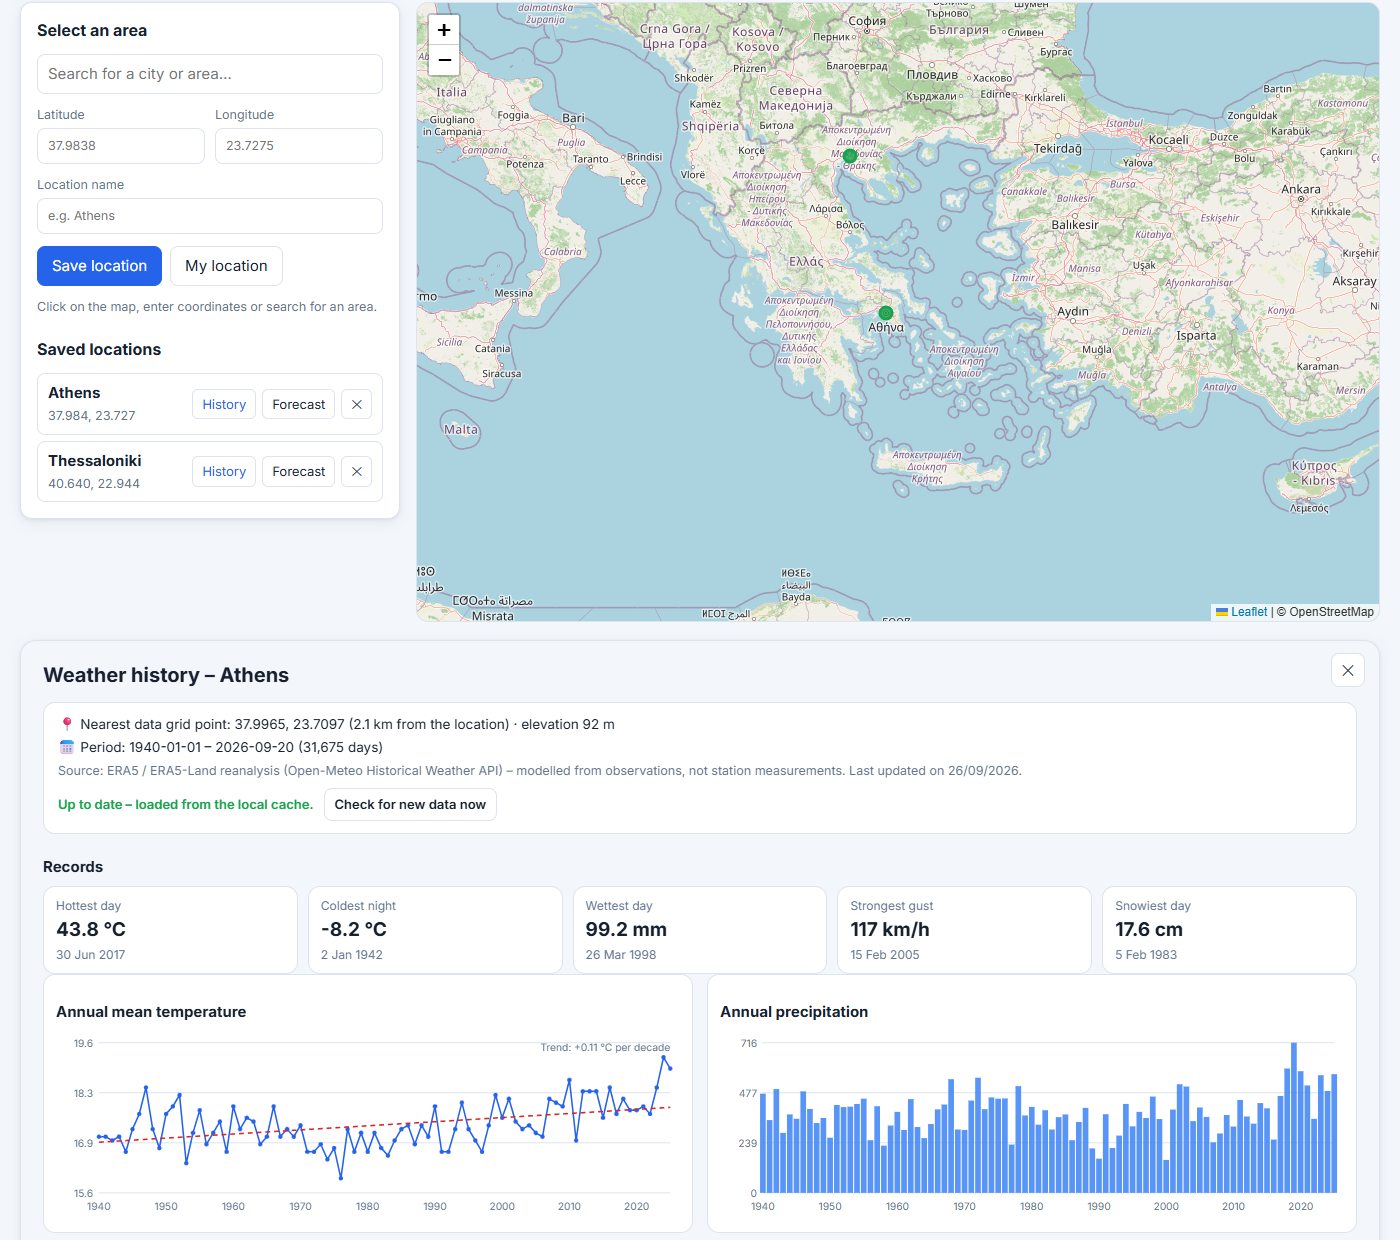
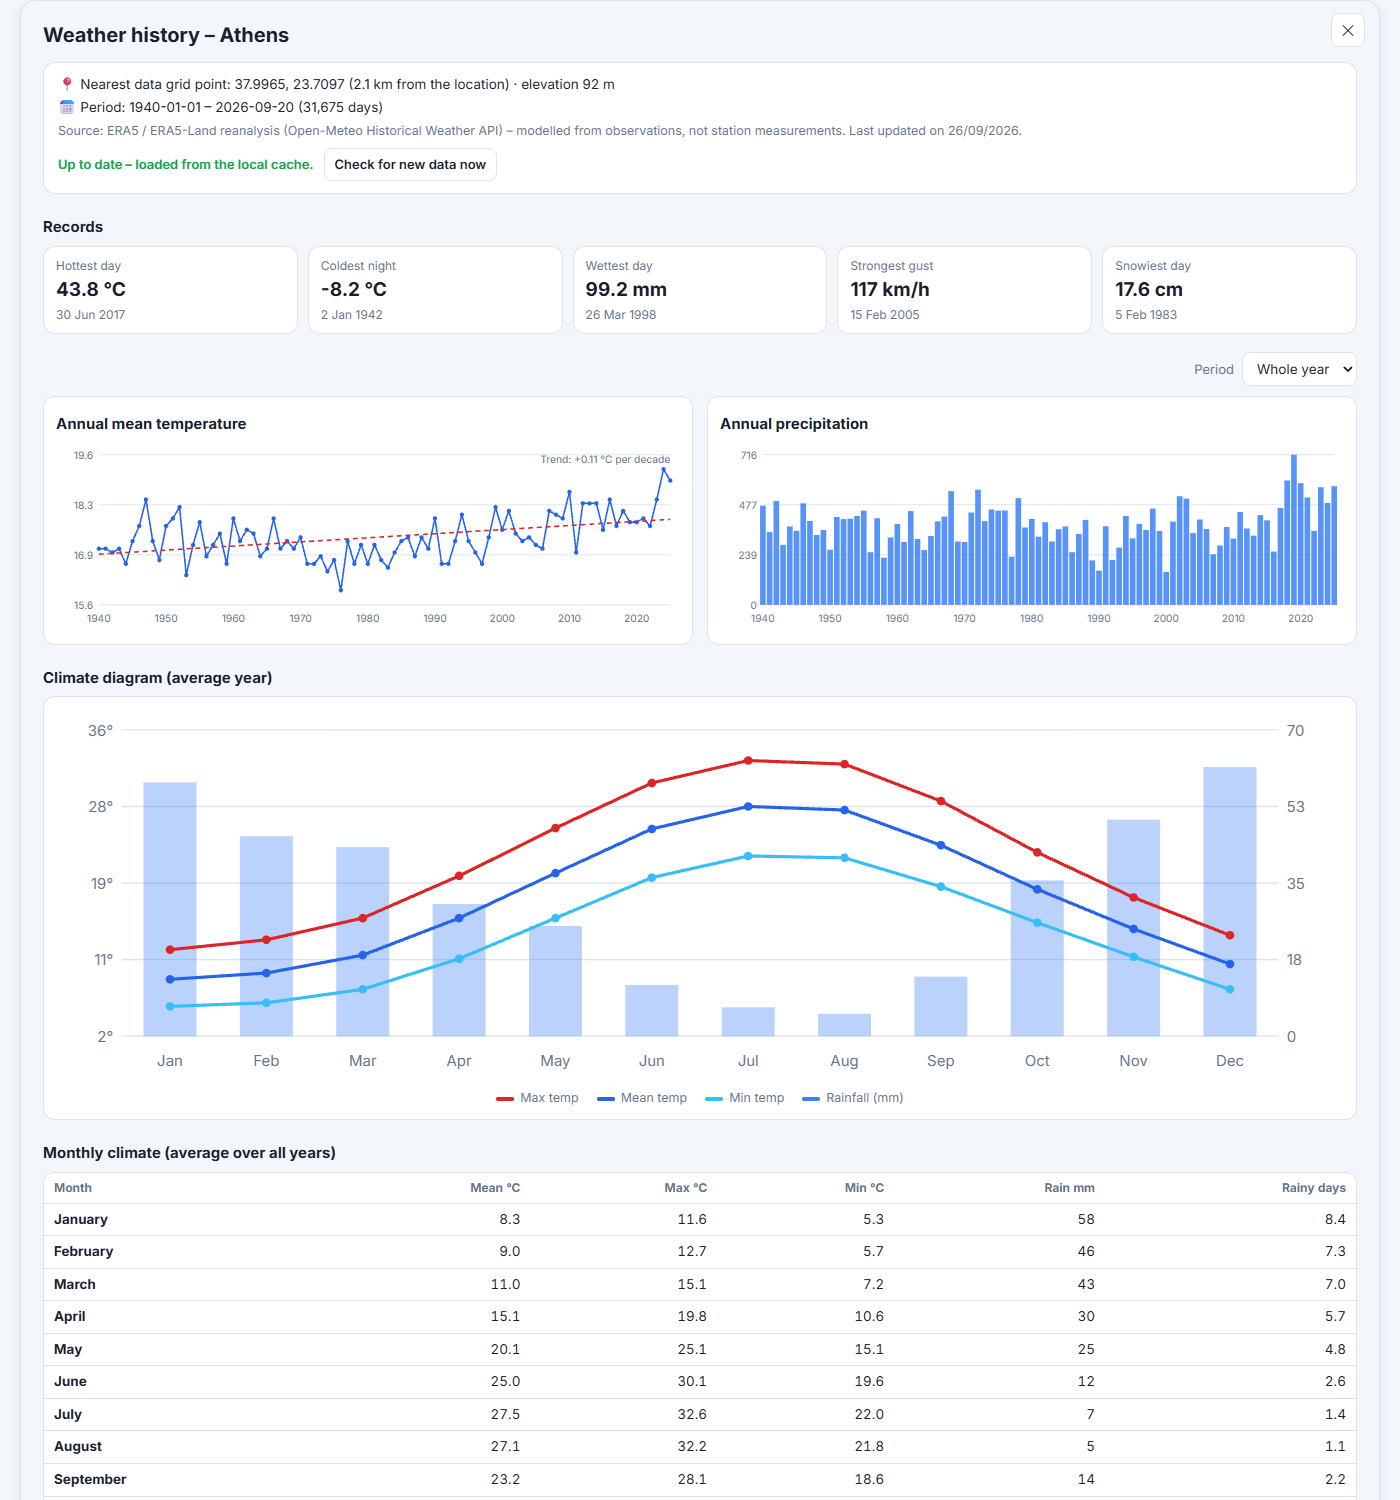
History: month selector for charts, climate diagram, spacing between sections

diff --git a/js/app.js b/js/app.js
@@ -643,15 +643,51 @@ function histChart(points, { kind, color, unit, d = 1, trend = false }) {
   return `<svg class="hchart" viewBox="0 0 ${W} ${H}" role="img">${g}${body}</svg>`;
 }
 
+/* Climate diagram: bars = rainfall per month (right axis), lines = max / mean / min temperature (left axis) */
+function climateChart(monthly) {
+  if (monthly.length < 12) return '';
+  const W = 900, H = 260, pl = 46, pr = 46, pt = 16, pb = 30;
+  const tv = monthly.flatMap((r) => [r.tmax, r.tmin]);
+  let tmin = Math.min(...tv), tmax = Math.max(...tv);
+  const tpad = (tmax - tmin) * 0.1 || 1; tmin = Math.floor(tmin - tpad); tmax = Math.ceil(tmax + tpad);
+  const pmax = Math.ceil(Math.max(...monthly.map((r) => r.prcp)) / 10) * 10 || 10;
+  const x = (i) => pl + ((i + 0.5) * (W - pl - pr)) / 12;
+  const yT = (v) => pt + (H - pt - pb) * (1 - (v - tmin) / (tmax - tmin));
+  const yP = (v) => pt + (H - pt - pb) * (1 - v / pmax);
+  const bw = ((W - pl - pr) / 12) * 0.55;
+  let g = '';
+  for (let i = 0; i <= 4; i++) {
+    const tvv = tmin + ((tmax - tmin) * i) / 4, pv = (pmax * i) / 4;
+    g += `<line x1="${pl}" x2="${W - pr}" y1="${yT(tvv)}" y2="${yT(tvv)}" class="gl"/>`
+      + `<text x="${pl - 6}" y="${yT(tvv) + 4}" text-anchor="end" class="tx">${Math.round(tvv)}°</text>`
+      + `<text x="${W - pr + 6}" y="${yT(tvv) + 4}" class="tx" fill="var(--rain)">${Math.round(pv)}</text>`;
+  }
+  const bars = monthly.map((r, i) => `<rect x="${x(i) - bw / 2}" y="${yP(r.prcp)}" width="${bw}" height="${yP(0) - yP(r.prcp)}" fill="var(--rain)" opacity=".35"><title>${monthName(r.m)}: ${niceNum(r.prcp, 0)} mm</title></rect>`).join('');
+  const line = (key, color, dash = '') => `<path d="${monthly.map((r, i) => `${i ? 'L' : 'M'}${x(i).toFixed(1)} ${yT(r[key]).toFixed(1)}`).join('')}" fill="none" stroke="${color}" stroke-width="2.2" ${dash ? `stroke-dasharray="${dash}"` : ''}/>`
+    + monthly.map((r, i) => `<circle cx="${x(i)}" cy="${yT(r[key])}" r="3" fill="${color}"><title>${monthName(r.m)}: ${niceNum(r[key])} °C</title></circle>`).join('');
+  const labels = monthly.map((r, i) => `<text x="${x(i)}" y="${H - 9}" text-anchor="middle" class="tx">${monthName(r.m, true)}</text>`).join('');
+  const legend = [['h.lg.max', 'var(--bad)'], ['h.lg.mean', 'var(--accent)'], ['h.lg.min', '#38bdf8'], ['h.lg.rain', 'var(--rain)']]
+    .map(([k, c]) => `<span><i style="background:${c}"></i>${t(k)}</span>`).join('');
+  return `<svg class="hchart" viewBox="0 0 ${W} ${H}" role="img">${g}${bars}${line('tmax', 'var(--bad)')}${line('tmean', 'var(--accent)')}${line('tmin', '#38bdf8')}${labels}</svg><div class="clegend">${legend}</div>`;
+}
+
 function renderHistory() {
   if (!histState) return;
   const { loc, data: h, fresh, added } = histState;
   if (!h) { return; }
   const m = h.meta;
+  const period = histState.period || 'all';
   const complete = h.annual.filter((a) => a.n >= 350);
+  // Series for the two charts: whole year (annual values) or one calendar month of every year
+  const seriesT = period === 'all' ? complete.filter((a) => a.tmean != null).map((a) => ({ x: a.y, v: a.tmean }))
+    : h.series.filter((r) => r[1] === +period && r[4] >= 25 && r[2] != null).map((r) => ({ x: r[0], v: r[2] }));
+  const seriesP = period === 'all' ? complete.filter((a) => a.prcp != null).map((a) => ({ x: a.y, v: a.prcp }))
+    : h.series.filter((r) => r[1] === +period && r[4] >= 25 && r[3] != null).map((r) => ({ x: r[0], v: r[3] }));
+  const pName = period === 'all' ? '' : monthName(+period);
+  const periodSel = `<label class="hperiod">${t('h.periodsel')} <select id="histPeriod"><option value="all">${t('h.period.all')}</option>${Array.from({ length: 12 }, (_, i) => `<option value="${i + 1}" ${+period === i + 1 ? 'selected' : ''}>${monthName(i + 1)}</option>`).join('')}</select></label>`;
   const fmtDate = (d) => new Date(d + 'T12:00:00').toLocaleDateString(dateLocale(), { day: 'numeric', month: 'short', year: 'numeric' });
   const rec = (k, unit, d = 1) => (h.records[k] ? `<div class="rcard"><span>${t('h.rec.' + k)}</span><b>${niceNum(h.records[k].v, d)} ${unit}</b><small>${fmtDate(h.records[k].d)}</small></div>` : '');
-  const months = h.monthly.map((r) => `<tr><th>${new Date(2000, r.m - 1, 1).toLocaleDateString(dateLocale(), { month: 'long' })}</th><td>${niceNum(r.tmean)}</td><td>${niceNum(r.tmax)}</td><td>${niceNum(r.tmin)}</td><td>${niceNum(r.prcp, 0)}</td><td>${niceNum(r.rainy, 1)}</td></tr>`).join('');
+  const months = h.monthly.map((r) => `<tr><th>${monthName(r.m)}</th><td>${niceNum(r.tmean)}</td><td>${niceNum(r.tmax)}</td><td>${niceNum(r.tmin)}</td><td>${niceNum(r.prcp, 0)}</td><td>${niceNum(r.rainy, 1)}</td></tr>`).join('');
   const maxP = Math.max(...h.annual.map((a) => a.prcp || 0), 1);
   const years = h.annual.slice().reverse().map((a) => `<tr><th>${a.y}${a.n < 350 ? '*' : ''}</th><td>${niceNum(a.tmean)}</td><td>${niceNum(a.tmax)}</td><td>${niceNum(a.tmin)}</td>
       <td><div class="pbar"><i style="width:${Math.round(((a.prcp || 0) / maxP) * 100)}%"></i><span>${niceNum(a.prcp, 0)}</span></div></td><td>${a.rainy}</td><td>${niceNum(a.gust, 0)}</td><td>${niceNum(a.snow)}</td></tr>`).join('');
@@ -665,20 +701,24 @@ function renderHistory() {
     </div>
     <h3>${t('h.rec.title')}</h3>
     <div class="rcards">${rec('hottest', '°C')}${rec('coldest', '°C')}${rec('wettest', 'mm')}${rec('windiest', 'km/h', 0)}${(h.records.snowiest && h.records.snowiest.v > 0) ? rec('snowiest', 'cm') : ''}</div>
+    <div class="h-toolbar">${periodSel}</div>
     <div class="h-charts">
-      <div><h3>${t('h.chart.temp')}</h3>${histChart(complete.filter((a) => a.tmean != null).map((a) => ({ x: a.y, v: a.tmean })), { kind: 'line', color: 'var(--accent)', unit: '°C', trend: true })}</div>
-      <div><h3>${t('h.chart.prcp')}</h3>${histChart(complete.filter((a) => a.prcp != null).map((a) => ({ x: a.y, v: a.prcp })), { kind: 'bar', color: 'var(--rain)', unit: 'mm', d: 0 })}</div>
+      <div><h3>${period === 'all' ? t('h.chart.temp') : t('h.chart.temp.m', { m: pName })}</h3>${histChart(seriesT, { kind: 'line', color: 'var(--accent)', unit: '°C', trend: true })}</div>
+      <div><h3>${period === 'all' ? t('h.chart.prcp') : t('h.chart.prcp.m', { m: pName })}</h3>${histChart(seriesP, { kind: 'bar', color: 'var(--rain)', unit: 'mm', d: 0 })}</div>
     </div>
+    <h3>${t('h.climate')}</h3>
+    <div class="h-climate">${climateChart(h.monthly)}</div>
     <h3>${t('h.monthly')}</h3>
     <div class="h-tablewrap"><table class="htable"><thead><tr><th>${t('h.col.month')}</th><th>${t('h.col.mean')}</th><th>${t('h.col.max')}</th><th>${t('h.col.min')}</th><th>${t('h.col.prcp')}</th><th>${t('h.col.rainy')}</th></tr></thead><tbody>${months}</tbody></table></div>
     <h3>${t('h.annual')}</h3>
     <div class="h-tablewrap tall"><table class="htable"><thead><tr><th>${t('h.col.year')}</th><th>${t('h.col.mean')}</th><th>${t('h.col.max')}</th><th>${t('h.col.min')}</th><th>${t('h.col.prcp')}</th><th>${t('h.col.rainy')}</th><th>${t('h.col.gust')}</th><th>${t('h.col.snow')}</th></tr></thead><tbody>${years}</tbody></table></div>
     <p class="hint">${t('h.partial')}</p>`;
   $('histUpdate').addEventListener('click', () => openHistory(loc, true));
+  $('histPeriod').addEventListener('change', (e) => { histState.period = e.target.value; renderHistory(); });
 }
 
 async function openHistory(loc, refresh = false) {
-  histState = { loc, data: null, fresh: false, added: 0 };
+  histState = { loc, data: null, fresh: false, added: 0, period: (histState && histState.loc.id === loc.id && histState.period) || 'all' };
   const wasHidden = histSec.hidden;
   histSec.hidden = false;
   if (wasHidden || !refresh) histSec.scrollIntoView({ behavior: 'smooth', block: 'start' });

diff --git a/js/i18n.js b/js/i18n.js
@@ -33,6 +33,11 @@ const I18N = {
     'h.rec.hottest': 'Hottest day', 'h.rec.coldest': 'Coldest night', 'h.rec.wettest': 'Wettest day', 'h.rec.windiest': 'Strongest gust', 'h.rec.snowiest': 'Snowiest day',
     'h.chart.temp': 'Annual mean temperature', 'h.chart.prcp': 'Annual precipitation',
     'h.trend': 'Trend: {v} °C per decade',
+    'h.periodsel': 'Period',
+    'h.period.all': 'Whole year',
+    'h.chart.temp.m': 'Mean temperature – {m} of each year', 'h.chart.prcp.m': 'Precipitation – {m} of each year',
+    'h.climate': 'Climate diagram (average year)',
+    'h.lg.max': 'Max temp', 'h.lg.mean': 'Mean temp', 'h.lg.min': 'Min temp', 'h.lg.rain': 'Rainfall (mm)',
     'h.monthly': 'Monthly climate (average over all years)', 'h.annual': 'Year by year',
     'h.col.month': 'Month', 'h.col.year': 'Year', 'h.col.mean': 'Mean °C', 'h.col.max': 'Max °C', 'h.col.min': 'Min °C', 'h.col.prcp': 'Rain mm', 'h.col.rainy': 'Rainy days', 'h.col.gust': 'Gust km/h', 'h.col.snow': 'Snow cm',
     'h.partial': '* incomplete year. “Rainy days” = days with at least 1 mm.',
@@ -139,6 +144,11 @@ const I18N = {
     'h.rec.hottest': 'Θερμότερη ημέρα', 'h.rec.coldest': 'Ψυχρότερη νύχτα', 'h.rec.wettest': 'Πιο βροχερή ημέρα', 'h.rec.windiest': 'Ισχυρότερη ριπή', 'h.rec.snowiest': 'Πιο χιονισμένη ημέρα',
     'h.chart.temp': 'Μέση ετήσια θερμοκρασία', 'h.chart.prcp': 'Ετήσια βροχόπτωση',
     'h.trend': 'Τάση: {v} °C ανά δεκαετία',
+    'h.periodsel': 'Περίοδος',
+    'h.period.all': 'Ολόκληρο το έτος',
+    'h.chart.temp.m': 'Μέση θερμοκρασία – {m} κάθε έτους', 'h.chart.prcp.m': 'Βροχόπτωση – {m} κάθε έτους',
+    'h.climate': 'Κλιματικό διάγραμμα (μέσο έτος)',
+    'h.lg.max': 'Μέγ. θερμοκρασία', 'h.lg.mean': 'Μέση θερμοκρασία', 'h.lg.min': 'Ελάχ. θερμοκρασία', 'h.lg.rain': 'Βροχή (mm)',
     'h.monthly': 'Κλίμα ανά μήνα (μέσος όρος όλων των ετών)', 'h.annual': 'Έτος προς έτος',
     'h.col.month': 'Μήνας', 'h.col.year': 'Έτος', 'h.col.mean': 'Μέση °C', 'h.col.max': 'Μέγ. °C', 'h.col.min': 'Ελάχ. °C', 'h.col.prcp': 'Βροχή mm', 'h.col.rainy': 'Βροχερές ημέρες', 'h.col.gust': 'Ριπή km/h', 'h.col.snow': 'Χιόνι cm',
     'h.partial': '* ημιτελές έτος. «Βροχερές ημέρες» = ημέρες με τουλάχιστον 1 mm.',
@@ -214,6 +224,15 @@ const I18N = {
   },
 };
 
+const MONTHS = {
+  en: ['January', 'February', 'March', 'April', 'May', 'June', 'July', 'August', 'September', 'October', 'November', 'December'],
+  el: ['Ιανουάριος', 'Φεβρουάριος', 'Μάρτιος', 'Απρίλιος', 'Μάιος', 'Ιούνιος', 'Ιούλιος', 'Αύγουστος', 'Σεπτέμβριος', 'Οκτώβριος', 'Νοέμβριος', 'Δεκέμβριος'],
+};
+const MONTHS_SHORT = {
+  en: ['Jan', 'Feb', 'Mar', 'Apr', 'May', 'Jun', 'Jul', 'Aug', 'Sep', 'Oct', 'Nov', 'Dec'],
+  el: ['Ιαν', 'Φεβ', 'Μαρ', 'Απρ', 'Μάι', 'Ιουν', 'Ιουλ', 'Αυγ', 'Σεπ', 'Οκτ', 'Νοε', 'Δεκ'],
+};
+
 let LANG = 'en';
 try { const s = localStorage.getItem('wefo.lang'); if (s && I18N[s]) LANG = s; } catch (e) { /* ignore */ }
 
@@ -224,6 +243,7 @@ function t(key, vars) {
   return s;
 }
 const hasT = (key) => !!(I18N[LANG] && I18N[LANG][key]) || !!I18N.en[key];
+const monthName = (m, short = false) => (short ? MONTHS_SHORT : MONTHS)[LANG]?.[m - 1] || (short ? MONTHS_SHORT : MONTHS).en[m - 1];
 const dateLocale = () => (LANG === 'el' ? 'el-GR' : 'en-GB');
 
 /* Static texts in index.html: data-i18n (text), data-i18n-html, data-i18n-ph (placeholder), data-i18n-title */

diff --git a/css/style.css b/css/style.css
@@ -264,3 +264,14 @@ select, input[type=text], input[type=number], input[type=search] { font: inherit
 .htable th:first-child { text-align: left; } .htable thead th { position: sticky; top: 0; background: var(--panel); font-size: 12px; color: var(--muted); }
 .pbar { position: relative; min-width: 90px; height: 18px; } .pbar i { position: absolute; left: 0; top: 2px; bottom: 2px; background: color-mix(in srgb, var(--rain) 35%, transparent); border-radius: 4px; } .pbar span { position: relative; padding-right: 2px; }
 @media (max-width: 760px) { .h-charts { grid-template-columns: 1fr; } .saved li { flex-wrap: wrap; } }
+
+/* History: spacing between sections, period selector, climate diagram */
+.rcards { margin-bottom: 18px; }
+.h-toolbar { display: flex; justify-content: flex-end; margin: 4px 0 10px; }
+.hperiod { flex-direction: row; align-items: center; gap: 8px; font-size: 13px; color: var(--muted); }
+.hperiod select { height: 34px; font-size: 13.5px; padding: 0 10px; }
+.h-charts { margin-top: 4px; }
+.h-charts h3 { margin-top: 12px; }
+.h-climate { background: var(--panel); border: 1px solid var(--line); border-radius: 12px; padding: 10px 12px 12px; }
+.clegend { display: flex; flex-wrap: wrap; gap: 6px 18px; justify-content: center; font-size: 12.5px; color: var(--muted); margin-top: 4px; }
+.clegend i { display: inline-block; width: 18px; height: 4px; border-radius: 2px; margin-right: 6px; vertical-align: middle; }

diff --git a/index.html b/index.html
@@ -9,7 +9,7 @@
 <link rel="preconnect" href="https://fonts.googleapis.com"><link rel="preconnect" href="https://fonts.gstatic.com" crossorigin>
 <link rel="stylesheet" href="https://fonts.googleapis.com/css2?family=Inter:wght@400;500;600;700&display=swap&subset=greek">
 <link rel="stylesheet" href="https://unpkg.com/leaflet@1.9.4/dist/leaflet.css">
-<link rel="stylesheet" href="css/style.css?v=20261015">
+<link rel="stylesheet" href="css/style.css?v=20261016">
 </head>
 <body>
 <header class="topbar">
@@ -108,8 +108,8 @@
 <footer data-i18n-html="footer.html"></footer>
 
 <script src="https://unpkg.com/leaflet@1.9.4/dist/leaflet.js"></script>
-<script src="js/i18n.js?v=20261015"></script>
-<script src="js/icons.js?v=20261015"></script>
-<script src="js/app.js?v=20261015"></script>
+<script src="js/i18n.js?v=20261016"></script>
+<script src="js/icons.js?v=20261016"></script>
+<script src="js/app.js?v=20261016"></script>
 </body>
 </html>

diff --git a/api/history.php b/api/history.php
@@ -107,6 +107,13 @@ foreach (rows($pdo, "SELECT m, AVG(tmean) tmean, AVG(tmax) tmax, AVG(tmin) tmin,
     $monthly[] = ['m' => (int)$r['m'], 'tmean' => rnd($r['tmean']), 'tmax' => rnd($r['tmax']), 'tmin' => rnd($r['tmin']), 'prcp' => rnd($r['prcp']), 'rainy' => rnd($r['rainy'])];
 }
 
+// Month-by-month series [year, month, mean temperature, precipitation, days] (used by the period selector)
+$series = [];
+foreach (rows($pdo, "SELECT CAST(substr(d,1,4) AS INTEGER) y, CAST(substr(d,6,2) AS INTEGER) m, AVG(tmean) t, SUM(prcp) p, COUNT(*) n
+        FROM history_daily WHERE loc_id = ? GROUP BY y, m ORDER BY y, m", [$id]) as $r) {
+    $series[] = [(int)$r['y'], (int)$r['m'], rnd($r['t']), rnd($r['p'], 0), (int)$r['n']];
+}
+
 // Annual summary
 $annual = [];
 foreach (rows($pdo, "SELECT substr(d,1,4) y, COUNT(*) n, AVG(tmean) tmean, MAX(tmax) tmax, MIN(tmin) tmin, SUM(prcp) prcp,
@@ -127,5 +134,6 @@ json_out([
     'added' => $added,
     'records' => $rec,
     'monthly' => $monthly,
+    'series' => $series,
     'annual' => $annual,
 ]);

diff --git a/README.md b/README.md
@@ -88,7 +88,8 @@ Click **History** next to a saved location and a section opens **below the map**
 
 - **Coverage:** which data grid point was used (its coordinates, its distance from your location and its elevation), the period and the number of days available.
 - **Records:** hottest day, coldest night, wettest day, strongest gust, snowiest day, with dates.
-- **Charts:** annual mean temperature with a trend line (°C per decade) and annual precipitation.
+- **Charts:** annual mean temperature with a trend line (°C per decade) and annual precipitation. A **Period** selector switches both charts from the whole year to a single calendar month (e.g. *July of each year*), which shows how each month has changed over time.
+- **Climate diagram:** the average year at a glance – max / mean / min temperature lines and rainfall bars for each month.
 - **Monthly climate:** average temperature (mean / max / min), rainfall and rainy days for each month over all years.
 - **Year by year:** mean / max / min temperature, precipitation (with bars), rainy days (≥ 1 mm), strongest gust and snowfall.
 
